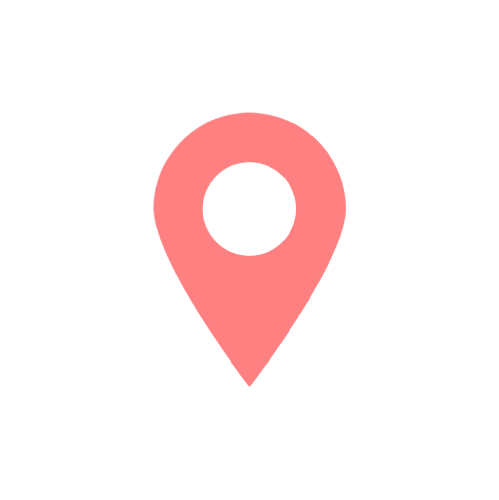
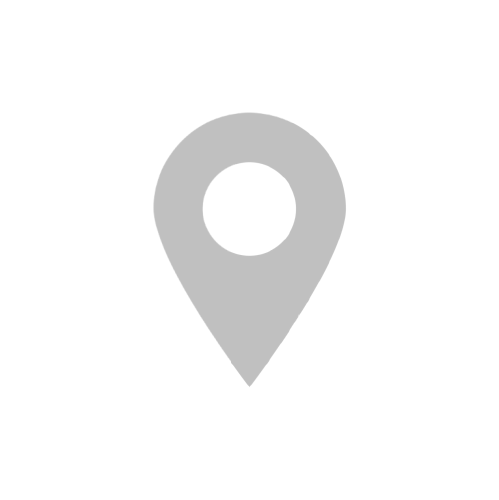
add: カテゴリの数に合うようにピンの画像を追加。 feat: マップページのカテゴリドロップダウンメニューにピンの画像が表示されるようにした。

Changed region(s): [[0.3006, 0.21, 0.6914, 0.78]]

diff --git a/src/shared/utils/category/categorydownMenuInvisibleMap.tsx b/src/shared/utils/category/categorydownMenuInvisibleMap.tsx
@@ -1,0 +1,127 @@
+import React from 'react';
+import Select, { components, OptionProps } from 'react-select';
+
+interface CategoryDropdownProps {
+  selectedCategory: string;
+  categories: string[];
+  onCategoryChange: (category: string) => void;
+}
+
+// オプションの型を定義
+interface Option {
+  value: string;
+  label: string;
+  icon: string;
+}
+
+// カテゴリに対応するアイコンマッピング
+const categoryIconMapping: { [key: string]: string } = {
+  '防災器具の場所': 'output/pin_variation_1.png',  // 消火器／消火栓
+  '道の名前': 'output/pin_variation_2.png',  // 路地の名称
+  '道幅のせまい場所': 'output/pin_variation_3.png',
+  '避難できる場所': 'output/pin_variation_4.png',
+  '避難しやすい道': 'output/pin_variation_5.png',
+  '懐かしい場所': 'output/pin_variation_6.png',
+  '守りたい場所': 'output/pin_variation_7.png',
+  '思い出の場所': 'output/pin_variation_8.png',
+  '大切な場所': 'output/pin_variation_9.png',
+  '観光地になるような場所': 'output/pin_variation_10.png',
+  '友達に教えてあげたいこと': 'output/pin_variation_11.png',
+  'おすすめスポット': 'output/pin_variation_12.png',
+  '写真映えするスポット': 'output/pin_variation_13.png',
+  '珍しいもの': 'output/pin_variation_14.png',
+  '面白いもの': 'output/pin_variation_15.png',
+  '危険な場所': 'output/pin_variation_16.png',
+  '注意が必要な場所': 'output/pin_variation_17.png',
+  '景観が綺麗な場所': 'output/pin_variation_18.png',
+  '緑を増やしたい場所': 'output/pin_variation_19.png',
+  '誇りに思う場所': 'output/pin_variation_20.png',
+  // '自治会に伝えたいこと' は非表示投稿なのでマッピングしない
+};
+
+const CategoryDropdown: React.FC<CategoryDropdownProps> = ({ selectedCategory, categories, onCategoryChange }) => {
+  // Filter out '自治会に伝えたいこと' and convert categories array into react-select options format
+  const options = categories
+    .filter((category) => category !== '自治会に伝えたいこと')  // フィルター処理で非表示にする
+    .map((category) => ({
+      value: category,
+      label: category,
+      icon: category !== 'すべて' ? categoryIconMapping[category] || '' : '',  // 'すべて' にはアイコンを設定しない
+    }));
+
+  // Find the selected option
+  const selectedOption = options.find(option => option.value === selectedCategory);
+
+  const handleChange = (option: Option | null) => {
+    if (option) {
+      onCategoryChange(option.value);
+    }
+  };
+
+  // カスタムオプションコンポーネント
+  const CustomOption: React.FC<OptionProps<Option, false>> = (props) => (
+    <components.Option {...props}>
+      {props.data.icon && (
+        <img
+          src={props.data.icon}
+          alt={props.data.label}
+          style={{ width: 20, height: 20, marginRight: 10 }}
+        />
+      )}
+      {props.data.label}
+    </components.Option>
+  );
+
+  return (
+    <div style={styles.container}>
+      <label htmlFor="category" style={styles.label}>お題: </label>
+      <Select
+        id="category"
+        value={selectedOption}
+        options={options}
+        onChange={handleChange}
+        isSearchable={false}
+        isClearable={false}
+        isDisabled={false}
+        components={{ Option: CustomOption }}
+        styles={{
+          control: (base) => ({ 
+            ...base, 
+            ...styles.selectControl,
+            cursor: 'pointer',
+          }),
+          menu: (base) => ({ ...base, ...styles.selectMenu }),
+          valueContainer: (base) => ({ ...base, ...styles.valueContainer }),
+          indicatorsContainer: (base) => ({ ...base, ...styles.indicatorsContainer }),
+        }}
+      />
+    </div>
+  );
+};
+
+const styles = {
+  container: {
+    display: 'flex',
+    alignItems: 'center',
+    gap: '10px',
+  },
+  label: {
+    fontSize: '16px',
+  },
+  selectControl: {
+    minHeight: '40px', // セレクトボックスの高さ
+    width: '260px', // セレクトボックスの幅
+    fontSize: '16px',
+  },
+  selectMenu: {
+    width: '260px', // セレクトボックスとメニューの幅を一致させる
+  },
+  valueContainer: {
+    padding: '2px 8px', // 内側のコンテンツの余白調整
+  },
+  indicatorsContainer: {
+    height: '40px', // セレクトボックスの高さに一致させる
+  },
+};
+
+export default CategoryDropdown;

diff --git a/src/features/map/components/mapComponent.tsx b/src/features/map/components/mapComponent.tsx
@@ -13,26 +13,28 @@ const userIcon = new L.Icon({
 
 // カテゴリとピン画像のマッピング
 const categoryIconMapping: { [key: string]: string } = {
-  '防災器具の場所': 'output/pin_variation_1.png',
-  '避難場所': 'output/pin_variation_2.png',
-  '道の名前': 'output/pin_variation_3.png',
-  '懐かしい場所': 'output/pin_variation_4.png',
-  '思い出の場所': 'output/pin_variation_5.png',
-  '守りたい場所': 'output/pin_variation_6.png',
-  '大切な場所': 'output/pin_variation_7.png',
-  '友達に教えてあげたいこと': 'output/pin_variation_8.png',
-  'おすすめスポット': 'output/pin_variation_9.png',
-  '珍しいもの': 'output/pin_variation_10.png',
-  '面白いもの': 'output/pin_variation_11.png',
-  '危険な場所': 'output/pin_variation_12.png',
-  '注意が必要な場所': 'output/pin_variation_13.png',
-  '景観が綺麗な場所': 'output/pin_variation_14.png',
-  '写真映えするスポット': 'output/pin_variation_15.png',
-  '歴史的な場所': 'output/pin_variation_16.png',
-  '地域の名物': 'output/pin_variation_17.png',
-  '季節を感じる場所': 'output/pin_variation_18.png',
+  '防災器具の場所': 'output/pin_variation_1.png',  // 消火器／消火栓
+  '道の名前': 'output/pin_variation_2.png',  // 路地の名称
+  '道幅のせまい場所': 'output/pin_variation_3.png',
+  '避難できる場所': 'output/pin_variation_4.png',
+  '避難しやすい道': 'output/pin_variation_5.png',
+  '懐かしい場所': 'output/pin_variation_6.png',
+  '守りたい場所': 'output/pin_variation_7.png',
+  '思い出の場所': 'output/pin_variation_8.png',
+  '大切な場所': 'output/pin_variation_9.png',
+  '観光地になるような場所': 'output/pin_variation_10.png',
+  '友達に教えてあげたいこと': 'output/pin_variation_11.png',
+  'おすすめスポット': 'output/pin_variation_12.png',
+  '写真映えするスポット': 'output/pin_variation_13.png',
+  '珍しいもの': 'output/pin_variation_14.png',
+  '面白いもの': 'output/pin_variation_15.png',
+  '危険な場所': 'output/pin_variation_16.png',
+  '注意が必要な場所': 'output/pin_variation_17.png',
+  '景観が綺麗な場所': 'output/pin_variation_18.png',
+  '緑を増やしたい場所': 'output/pin_variation_19.png',
+  '誇りに思う場所': 'output/pin_variation_20.png',
+  // '自治会に伝えたいこと' は非表示投稿なのでマッピングしない
 };
-
 interface Post {
   id: string;
   imageUrl?: string | null;

diff --git a/src/features/map/pages/mapPage.tsx b/src/features/map/pages/mapPage.tsx
@@ -7,7 +7,7 @@ import awsExports from './../../../aws-exports';
 import dynamic from 'next/dynamic';
 import { getCurrentUser } from 'aws-amplify/auth'; // ユーザー情報取得のためのインポート
 const MapComponent = dynamic(() => import('../components/mapComponent'), { ssr: false });
-import CategoryDropdown from '@/shared/utils/category/categorydownMenuInvisible';
+import CategoryDropdown from '@/shared/utils/category/categorydownMenuInvisibleMap';
 import { categoriesList } from '@/shared/utils/category/categoryList';
 import { getUrl } from 'aws-amplify/storage';
 import { listLikes } from '../../../graphql/queries'; // いいねのリストを取得
